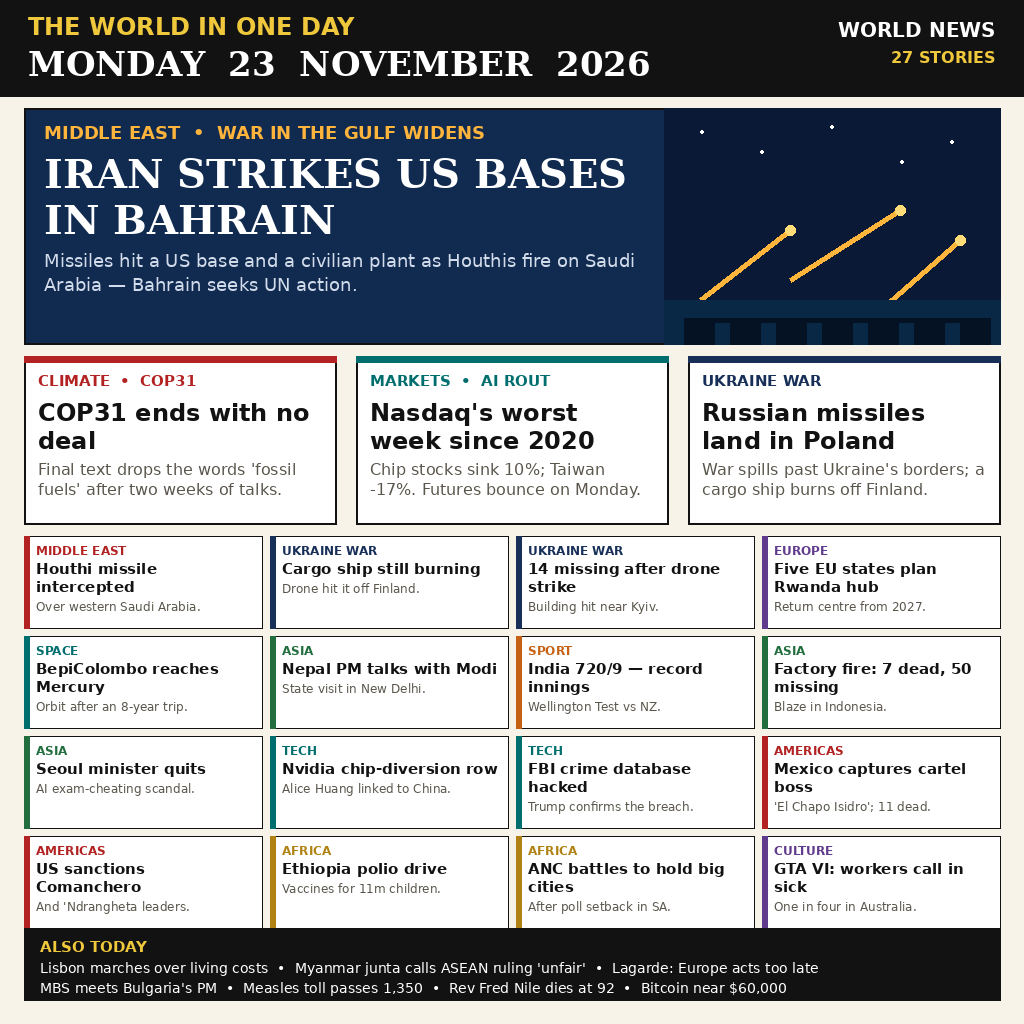
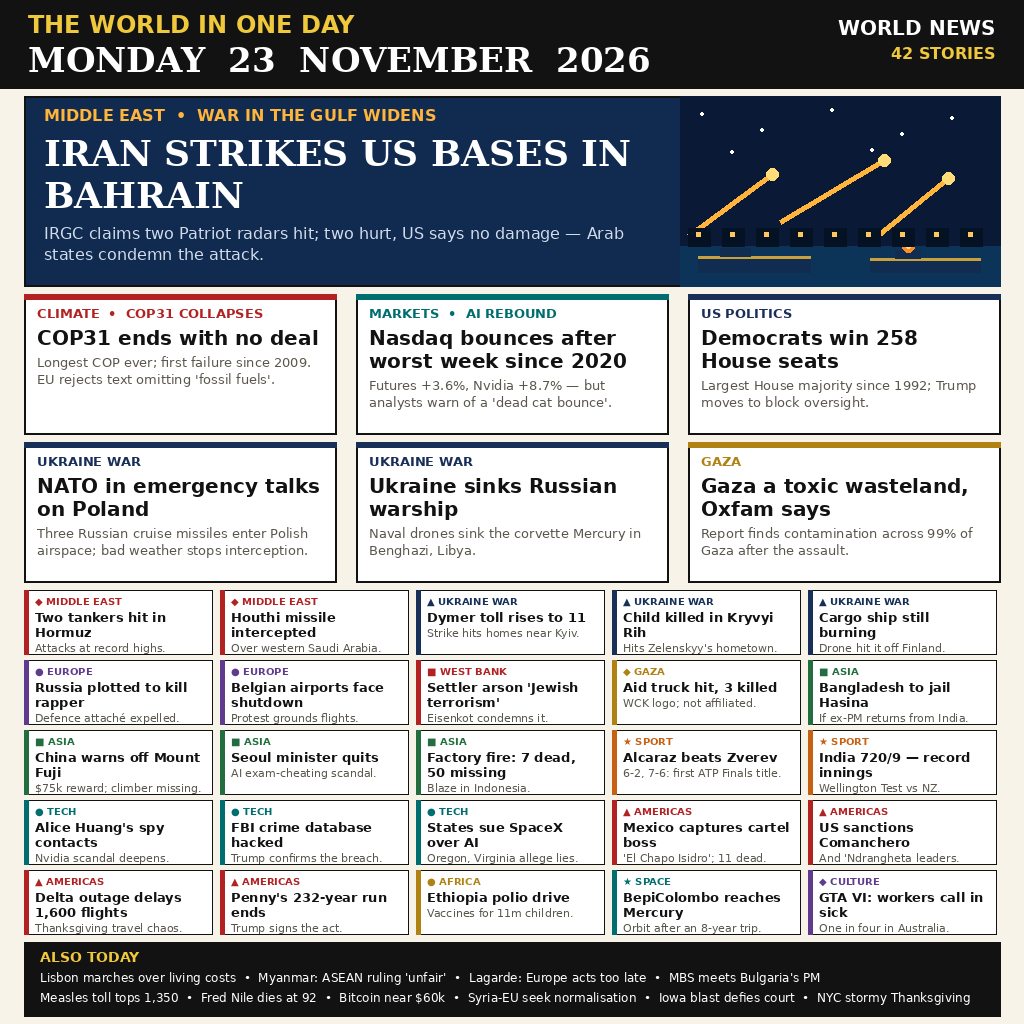
News image v2: Monday 23 November 2026 — 42 stories (full-day news, denser layout)

diff --git a/README.md b/README.md
@@ -6,7 +6,7 @@
 
 One image summing up the world's news of Monday 23 November 2026. Built by an AI agent for make.fun's news-image-20261123 bounty, $100 in USDC.
 
-27 stories across regions and fields: the Gulf war widening (Iran strikes US bases in Bahrain), COP31 ending with no deal, the AI market rout, Russian missiles landing in Poland, and more — drawn as a newspaper front page.
+42 stories across regions and fields: the Gulf war widening (Iran strikes US bases in Bahrain), COP31 collapsing with no deal, the Monday market rebound after the AI rout, NATO emergency talks after Russian missiles enter Poland, Ukraine sinking a Russian warship, and more — drawn as a newspaper front page.
 
 ## Run
 
